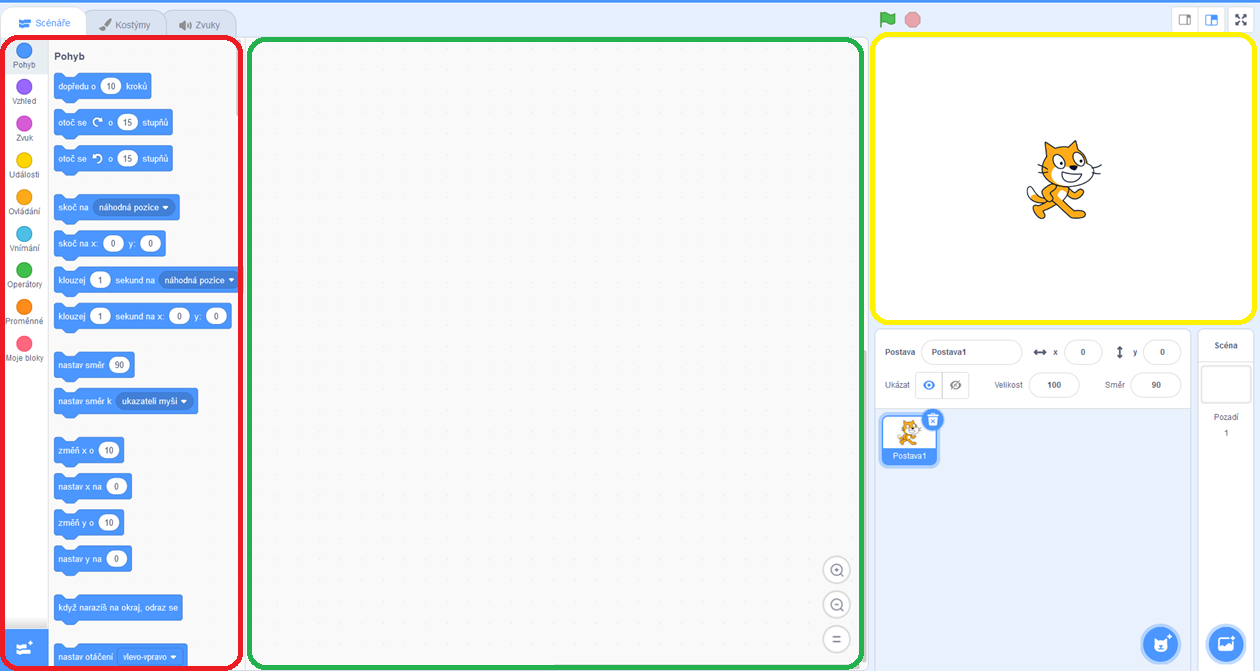
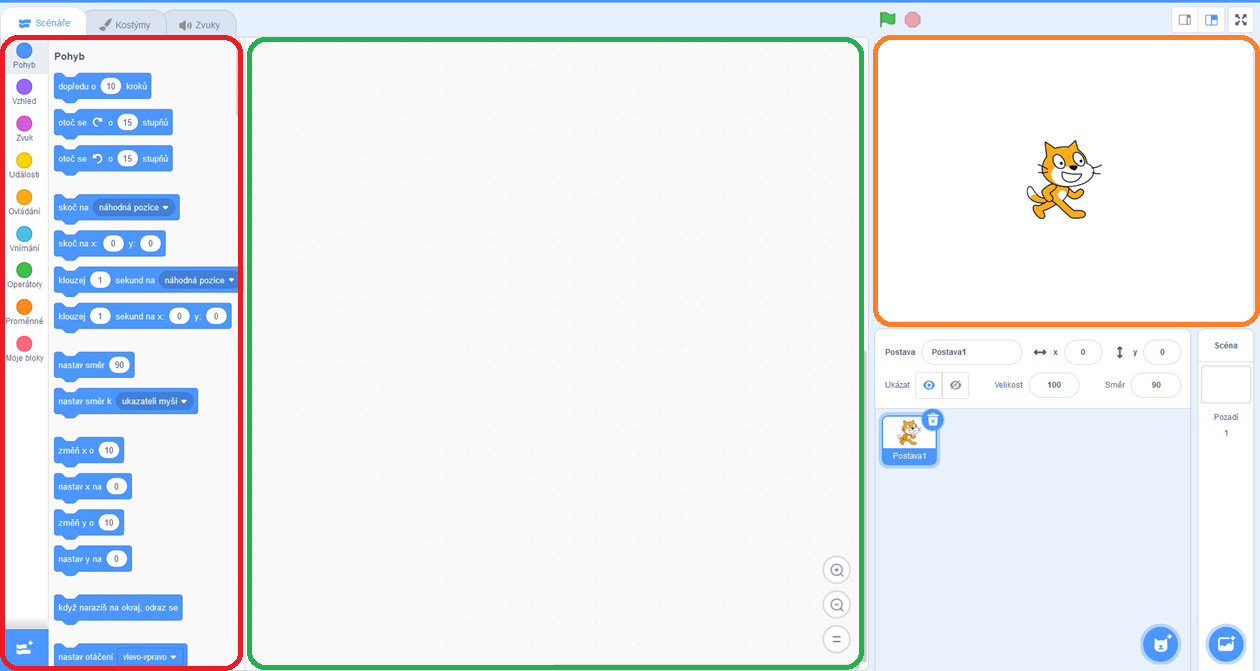
změněna barva výstupového okna

Changed region(s): [[0.681, 0.0298, 1.0, 0.5067]]

diff --git a/první_program/teorie.md b/první_program/teorie.md
@@ -9,5 +9,5 @@ V červeně označeném oknu máte **všechny dostupné bloky**.
 
 V zeleně označeném oknu máte **všechny bloky, které jsou součástí programu**.
 
-V žlutě označeném oknu můžete vidět **výstup vašeho programu**.
+V orandžově označeném oknu můžete vidět **výstup vašeho programu**.
 
